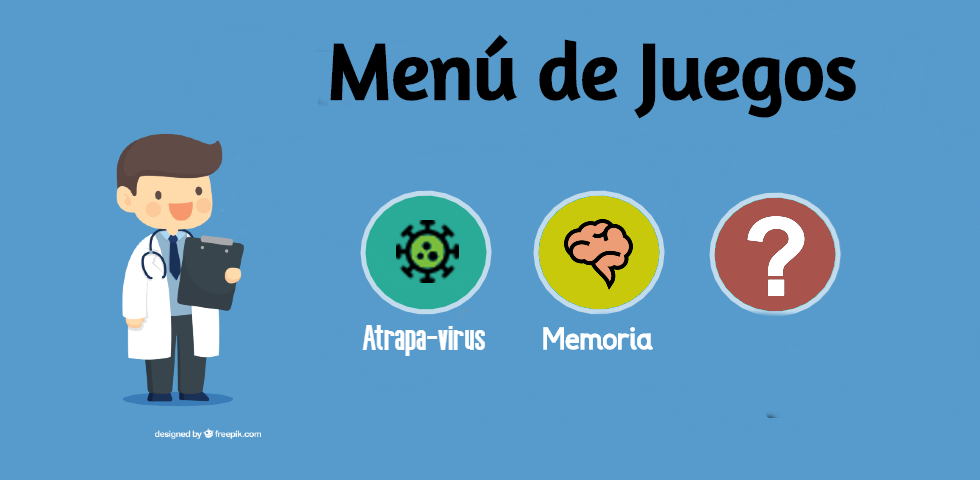
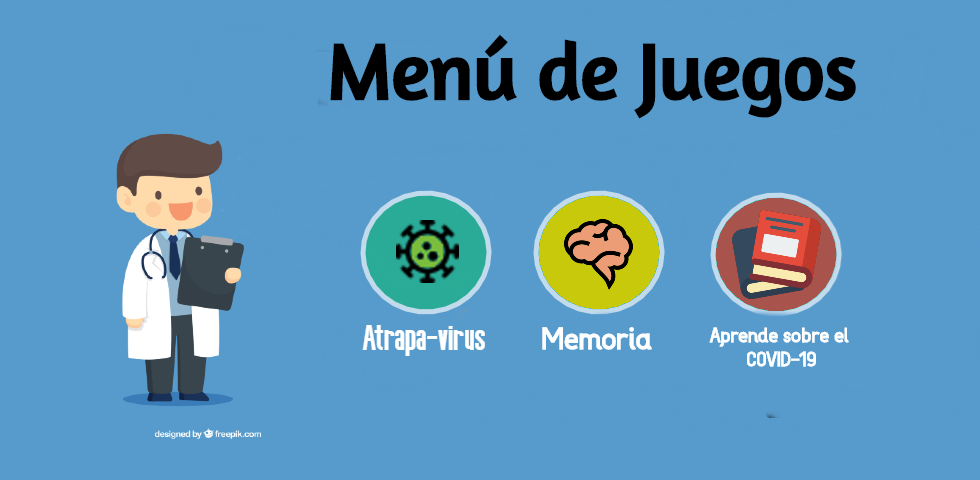
version 1.0

Changed region(s): [[0.7041, 0.4375, 0.8571, 0.625], [0.7041, 0.6875, 0.8878, 0.7812], [0.551, 0.6875, 0.6735, 0.75]]

diff --git a/assets/js/juego1.js b/assets/js/juego1.js
@@ -35,6 +35,10 @@ window.onload = function() { //Se ejecuta cuando carga la página
             imagenD.src = "../assets/img/washHands.png";
             const finalJuegoMemoria = new Image();
             finalJuegoMemoria.src = "../assets/img/finalJuegoMemoria.png";
+            const diapositiva1 = new Image();
+            diapositiva1.src = "../assets/img/diapositiva1.png";
+            const diapositiva2 = new Image();
+            diapositiva2.src = "../assets/img/diapositiva2.png";
 
             const musiquita = new Audio('../audio/musicaVideojuego.m4a');
             const tick = new Audio('../audio/tick.mp3');
@@ -166,6 +170,7 @@ window.onload = function() { //Se ejecuta cuando carga la página
                 canvas.removeEventListener("click", juegoVirusJugarDeNuevoListener);
                 canvas.removeEventListener("click", juegoVirusClickListener);
                 canvas.removeEventListener("click", juegoMemoriaJugarDeNuevoListener);
+                canvas.removeEventListener("click", aprenderClickListener);
                 canvas.addEventListener("click", menuListener);
                 musiquita.pause();
 
@@ -193,6 +198,8 @@ window.onload = function() { //Se ejecuta cuando carga la página
                     atraparVirus();
                 } else if (Math.abs((mouse.x) - 610) < 70 && Math.abs((mouse.y) - 265) < 75) {
                     juegoMemoria();
+                } else if (Math.abs((mouse.x) - 780) < 70 && Math.abs((mouse.y) - 265) < 75) {
+                    aprender();
                 }
             }
 
@@ -515,6 +522,74 @@ window.onload = function() { //Se ejecuta cuando carga la página
                         '</form>',
                     showConfirmButton: false
                 });
+            }
+
+            function imprimirDiapositivas() {
+                switch (diapositiva) {
+                    case -1:
+                        cargarMenu();
+                        break;
+
+                    case 0:
+                        lienzo.drawImage(diapositiva1, 10, 10);
+
+                        lienzo.font = "bold 20px Verdana";
+                        lienzo.fillStyle = "#A3B113";
+                        lienzo.fillRect(10, 450, 250, 40);
+                        lienzo.fillStyle = "white";
+                        lienzo.fillText("Menú de juegos", 40, 475);
+
+
+                        lienzo.fillStyle = "#8B3E20";
+                        lienzo.fillRect(740, 450, 250, 40);
+                        lienzo.fillStyle = "white";
+                        lienzo.fillText("Siguiente Diapositiva", 745, 475);
+
+                        break;
+
+                    case 1:
+                        lienzo.drawImage(diapositiva2, 10, 10);
+
+                        lienzo.font = "bold 20px Verdana";
+                        lienzo.fillStyle = "#A3B113";
+                        lienzo.fillRect(10, 450, 250, 40);
+                        lienzo.fillStyle = "white";
+                        lienzo.fillText("Anterior diapositiva", 25, 475);
+
+
+                        lienzo.fillStyle = "#8B3E20";
+                        lienzo.fillRect(740, 450, 250, 40);
+                        lienzo.fillStyle = "white";
+                        lienzo.fillText("Menú de juegos", 775, 475);
+                        break;
+
+                    case 2:
+                        cargarMenu();
+                        break;
+                }
+            }
+
+            function aprender() {
+                canvas.removeEventListener("click", menuListener);
+                canvas.addEventListener("click", aprenderClickListener);
+                lienzo.font = "bold 20px Verdana";
+                diapositiva = 0;
+                limpiar();
+                imprimirDiapositivas();
+            }
+
+            function aprenderClickListener(event) {
+                mouse = {
+                    x: event.clientX - margen.left,
+                    y: event.clientY - margen.top
+                }
+                if (Math.abs((mouse.x) - 125) < 135 && Math.abs((mouse.y) - 470) < 20) {
+                    diapositiva--;
+                    imprimirDiapositivas();
+                } else if (Math.abs((mouse.x) - 860) < 135 && Math.abs((mouse.y) - 470) < 20) {
+                    diapositiva++;
+                    imprimirDiapositivas();
+                }
             }
 
         } else {
